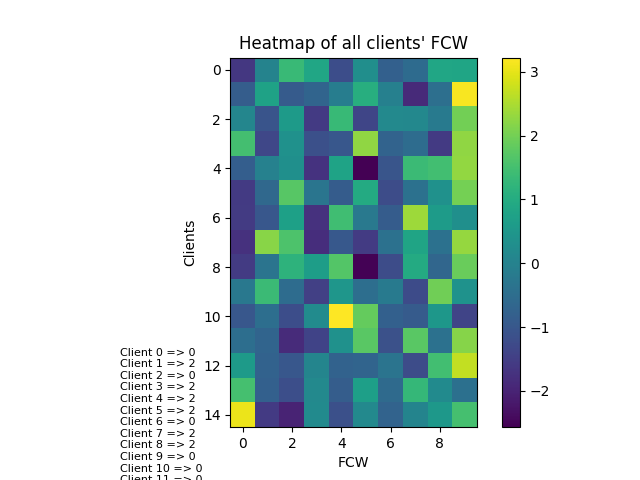
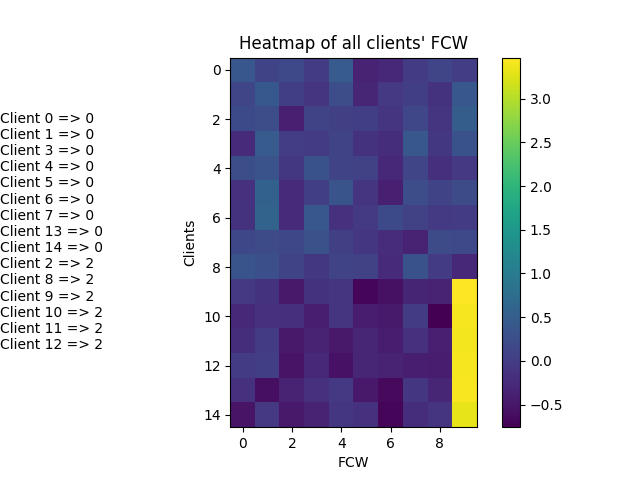
Heatmaps plotted

diff --git a/bd_strategy.py b/bd_strategy.py
@@ -337,7 +337,8 @@ class NNtrain(Strategy):
                 evil_results.append((parameters_to_ndarrays(fit_res.parameters), fit_res.num_examples))
                 """Computing individual poisoning accuracies"""
                 parameters_ndarrays = parameters_to_ndarrays(fit_res.parameters)
-                attack_eval_res = self.attack_evaluate_fn(server_round, parameters_ndarrays, {}, torch.device("cuda"))
+                attack_eval_res = self.attack_evaluate_fn(server_round, parameters_ndarrays, {})
+                # attack_eval_res = self.attack_evaluate_fn(server_round, parameters_ndarrays, {}, torch.device("cuda"))  #GPU
                 if attack_eval_res is None:
                     return None
                 _, metrics = attack_eval_res
@@ -696,7 +697,8 @@ def heatmaps(client_cid, comb_C, malicious, layer, name, server_round):
     plt.imshow(np.concatenate((good_layer, bad_layer), axis=0), cmap='viridis', interpolation='nearest')
     plt.colorbar()
     # plt.text(-5, 15, textstr, fontsize=8, verticalalignment='center', horizontalalignment='left')
-    plt.text(-0.1, 0.5, textstr, fontsize=8, verticalalignment='center', transform=plt.gca().transAxes)
+    # plt.text(-0.1, 0.5, textstr, fontsize=8, verticalalignment='center', transform=plt.gca().transAxes)
+    plt.annotate(textstr, xy=(0, 1), xycoords='figure fraction', xytext=(-20, 20), textcoords='offset points', ha="left", va="top")
     plt.xlabel(name)
     plt.ylabel("Clients")
     plt.title("Heatmap of all clients' {}".format(name))
